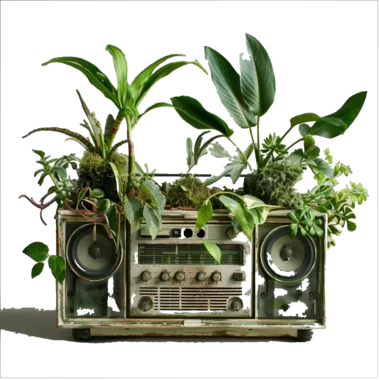
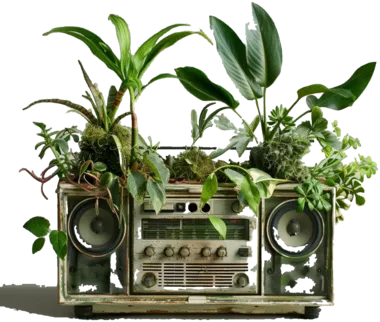
edutainment + regen art: fix the cutouts, move the boombox, focus the press page
The square outline around the boombox was a real bug, not a tuning problem:
scipy's binary_closing treats outside the array as empty, so the closing eroded
a frame off the edge of the background mask and left the outermost pixels
opaque. A drop-shadow then drew that frame as a box. Fixed with border_value=1,
plus a hard-zeroed fringe so no filter can box a soft edge again. The boombox
now sits in the space the bullets leave under them, and the crew holds the
right column alone.

Two faults in the performers cutout. The neck was cut off because the magenta
screen measures 0.63-0.67 while skin in shadow picks up enough spill to reach
0.47 — a 0.25 threshold ate jaw and neck, so it is 0.55 now. And keeping only
the largest component kept only one of the two of you; it keeps every
substantial body instead.

The Santa Fe New Mexican page joins the mural set with everything but the
masthead and "A mural with meaning" blurred back, so the page reads as the
feature rather than a front page. Composited by giving the sharp copy the mask
as its alpha and laying it over the blurred one — passing a mask to a
three-image -composite did nothing here.

diff --git a/src/pages/Edutainment.jsx b/src/pages/Edutainment.jsx
@@ -237,7 +237,8 @@ export default function Edutainment() {
         /* music section: the bullets on the left, the Earth boombox filling the space beside them */
         .ed-music{ display:grid; gap:clamp(22px,4vw,44px); align-items:start; grid-template-columns:1fr; }
         .ed-music > ul{ grid-column:1; }
-        @media (min-width:900px){ .ed-music > .ed-scene{ grid-column:2; grid-row:1 / span 2; } }
+        @media (min-width:900px){ .ed-music > ul, .ed-music > .ed-boombox{ grid-column:1; } }
+        @media (min-width:900px){ .ed-music > .ed-scene{ grid-column:2; grid-row:1 / span 3; } }
         @media (min-width:900px){ .ed-music{ grid-template-columns:1.05fr .95fr; } }
         /* listen and watch, side by side: the compact player plus the channel */
         .ed-listen{ display:grid; gap:14px; grid-template-columns:1fr; align-items:stretch; max-width:900px; }
@@ -255,13 +256,17 @@ export default function Edutainment() {
         /* Cutouts standing on the page rather than framed photographs: the crew
            sets the height, and the boombox sits lower and in front of them, so it
            reads as being on the ground in the same scene. */
-        .ed-scene{ position:relative; margin:0; padding-bottom:58px; }
-        .ed-scene-crew{ display:block; width:88%; max-width:420px; height:auto; margin:0 auto;
+        /* Both stand on the page as cutouts rather than framed photographs. The
+           crew holds the right column; the boombox fills the space the bullets
+           leave under them on the left. */
+        .ed-scene{ margin:0; }
+        .ed-scene-crew{ display:block; width:92%; max-width:440px; height:auto; margin:0 auto;
           filter:drop-shadow(0 18px 26px rgba(0,0,0,.42)); }
-        .ed-scene-boombox{ position:absolute; z-index:2; left:2%; bottom:34px; width:47%; max-width:210px; height:auto;
-          filter:drop-shadow(0 12px 18px rgba(0,0,0,.45)); }
-        .ed-scene figcaption{ position:absolute; left:0; right:0; bottom:0; text-align:center;
-          font-family:'Space Mono', ui-monospace, monospace; font-size:12px; color:${T.cream}99; letter-spacing:.06em; }
+        .ed-boombox{ margin:clamp(14px,2.5vh,26px) 0 0; }
+        .ed-boombox img{ display:block; width:80%; max-width:330px; height:auto;
+          filter:drop-shadow(0 12px 20px rgba(0,0,0,.45)); }
+        .ed-boombox figcaption{ margin-top:12px; font-family:'Space Mono', ui-monospace, monospace;
+          font-size:12px; color:${T.cream}99; letter-spacing:.06em; }
 
         /* closing CTA sits on the solar disco */
         .ed-cta{ position:relative; text-align:center; border-radius:28px; overflow:hidden; isolation:isolate;
@@ -331,16 +336,18 @@ export default function Edutainment() {
                   screen below on the closing CTA, so it needs no button here */}
               {[...c.music_points, c.booking_point].map(([b, s]) => <li key={b}><b>{b}</b><span>{s}</span></li>)}
             </ul>
-            <figure className="ed-scene">
-              <img className="ed-scene-crew" src="/art/edutainment/crew-cutout-900.webp"
-                   srcSet="/art/edutainment/crew-cutout-450.webp 450w, /art/edutainment/crew-cutout-900.webp 900w"
-                   sizes="(max-width: 900px) 70vw, 420px" alt={c.crew_alt}
-                   width="900" height="1532" loading="lazy" decoding="async" />
-              <img className="ed-scene-boombox" src="/art/edutainment/boombox-cutout-700.webp"
+            <figure className="ed-boombox">
+              <img src="/art/edutainment/boombox-cutout-700.webp"
                    srcSet="/art/edutainment/boombox-cutout-380.webp 380w, /art/edutainment/boombox-cutout-700.webp 700w"
-                   sizes="(max-width: 900px) 34vw, 200px" alt={c.boombox_cap}
-                   width="700" height="700" loading="lazy" decoding="async" />
+                   sizes="(max-width: 900px) 62vw, 330px" alt={c.boombox_cap}
+                   width="700" height="592" loading="lazy" decoding="async" />
               <figcaption>{c.boombox_cap}</figcaption>
+            </figure>
+            <figure className="ed-scene">
+              <img className="ed-scene-crew" src="/art/edutainment/crew-cutout-800.webp"
+                   srcSet="/art/edutainment/crew-cutout-400.webp 400w, /art/edutainment/crew-cutout-800.webp 800w"
+                   sizes="(max-width: 900px) 74vw, 440px" alt={c.crew_alt}
+                   width="800" height="1360" loading="lazy" decoding="async" />
             </figure>
           </div>
         </section>

diff --git a/src/pages/regenArtCopy.js b/src/pages/regenArtCopy.js
@@ -25,6 +25,7 @@ export const raCopy = {
       "Painting the sunburst panel",
       "Detail work in a dragon hood",
       "Rolling colour high on the wall",
+      "Santa Fe New Mexican, 2 January 2021 — \u201cA mural with meaning\u201d",
     ],
 
     sculpture_label: "SCULPTURE",
@@ -69,6 +70,7 @@ export const raCopy = {
       "Pintando el panel del sol",
       "Trabajo de detalle con capucha de dragón",
       "Aplicando color en lo alto del muro",
+      "Santa Fe New Mexican, 2 de enero de 2021 — \u201cA mural with meaning\u201d",
     ],
 
     sculpture_label: "ESCULTURA",

diff --git a/src/pages/RegenArt.jsx b/src/pages/RegenArt.jsx
@@ -46,7 +46,7 @@ function EcoHomeLoop({ caption }) {
   );
 }
 
-const MURALS = ["mural-finished", "mural-1", "mural-3", "mural-4"];
+const MURALS = ["mural-finished", "mural-1", "mural-3", "mural-4", "mural-news"];
 const SCULPTURE = ["sculpture-1", "sculpture-2", "sculpture-3", "sculpture-4", "sculpture-5"];
 
 export default function RegenArt() {
